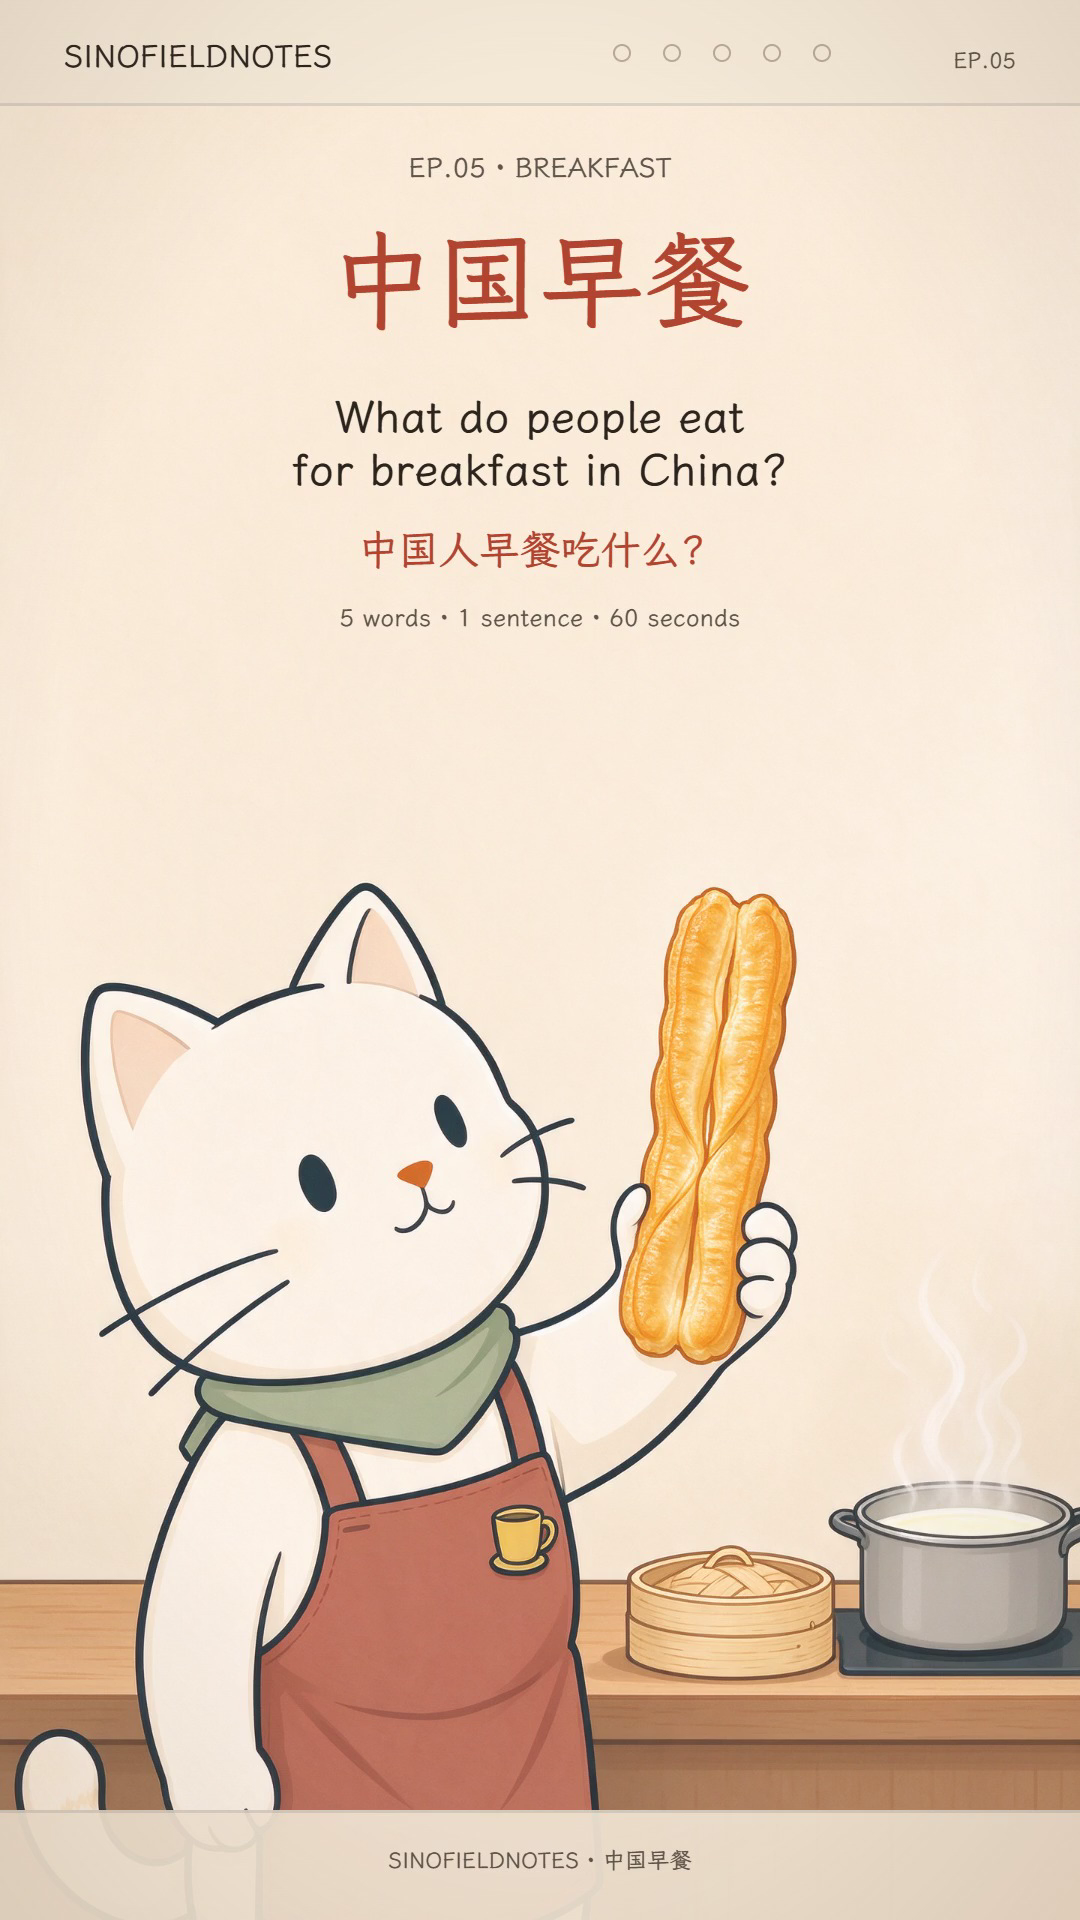
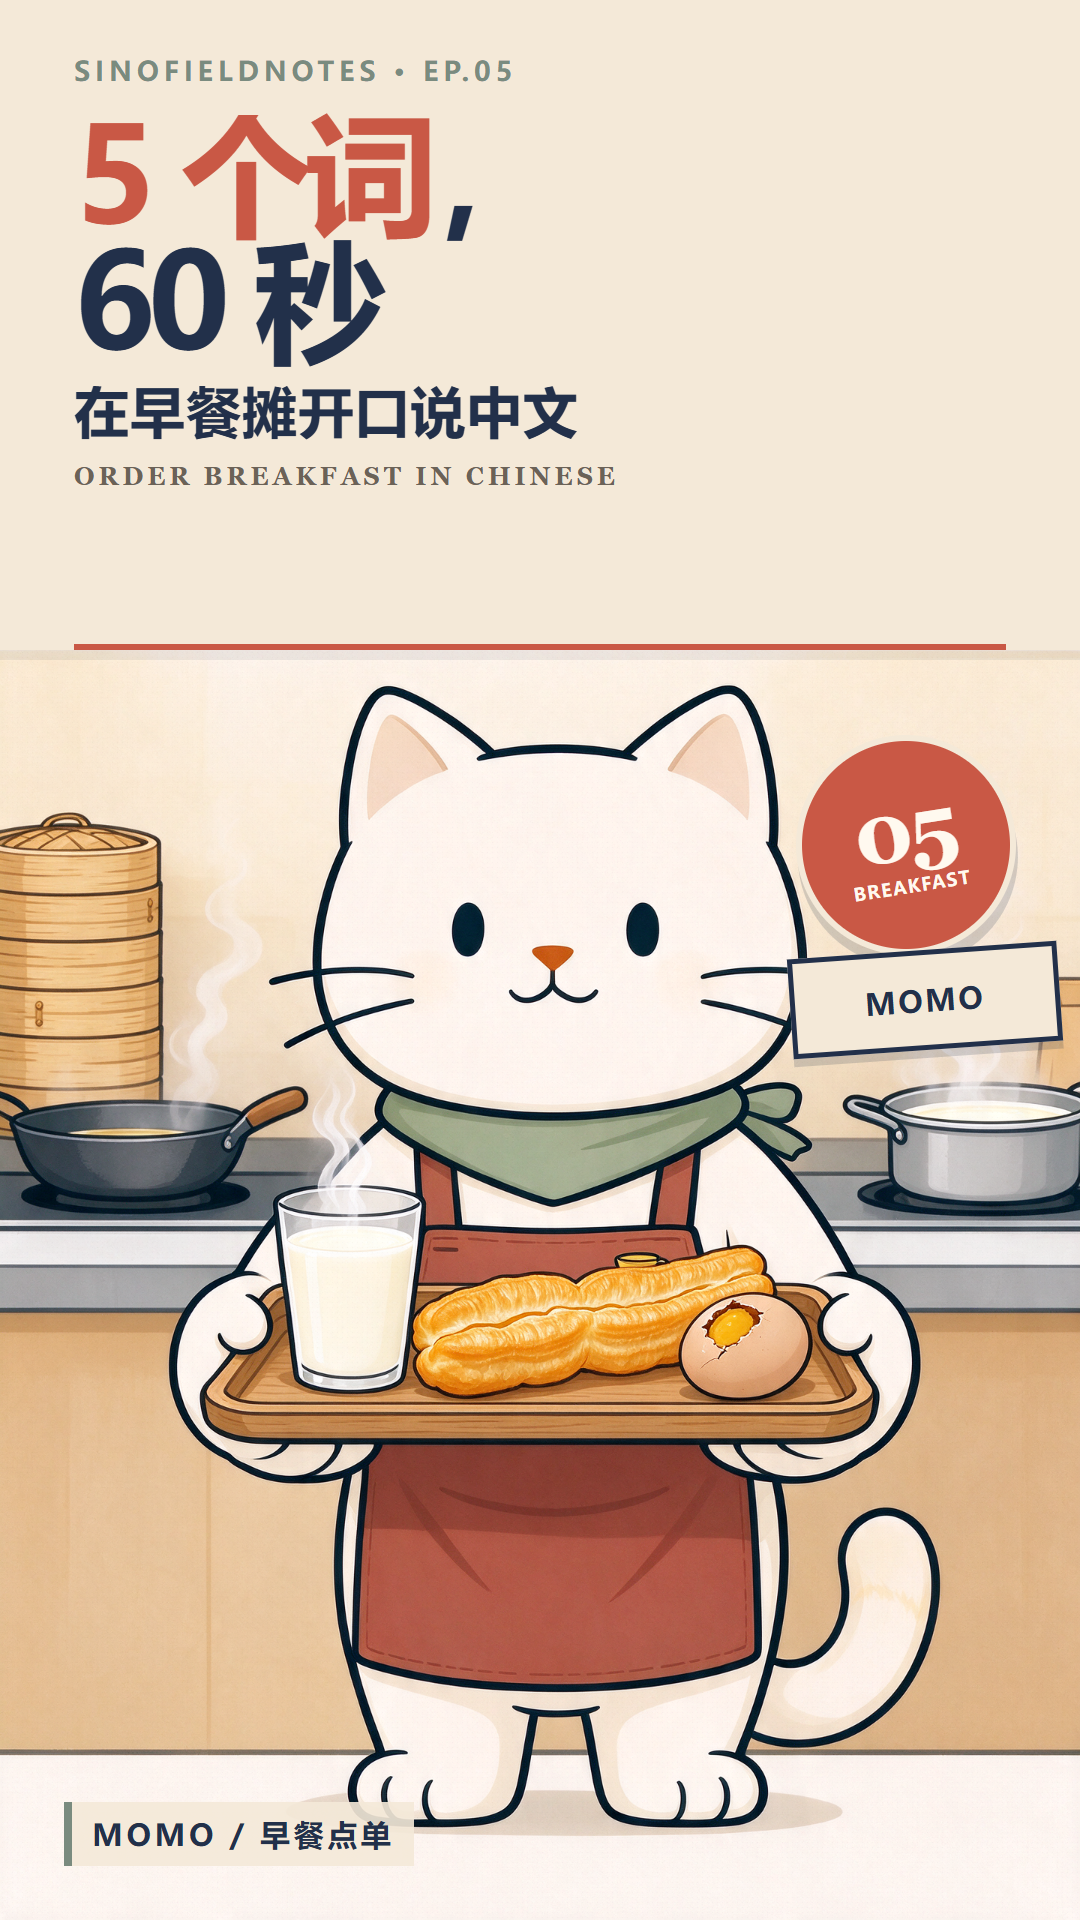
Fix EP05 cover layout

diff --git a/production/episodes/05-breakfast/cover.html b/production/episodes/05-breakfast/cover.html
@@ -1,0 +1,34 @@
+<!doctype html>
+<html><head><meta charset="utf-8"><style>
+*{box-sizing:border-box}
+html,body{margin:0;padding:0;width:1080px;height:1920px;overflow:hidden;background:#F4E9D8}
+.cover{position:relative;width:1080px;height:1920px;background:url('assets/mascot/breakfast-cover-v1.png') center/cover no-repeat}
+.grain{position:absolute;inset:0;background-image:radial-gradient(rgba(34,48,74,.055) .7px,transparent .7px);background-size:5px 5px;opacity:.5;pointer-events:none}
+.top{position:absolute;left:0;top:0;width:1080px;height:650px;background:#F4E9D8;padding:54px 74px 0;box-shadow:0 10px 0 rgba(34,48,74,.08)}
+.kicker{font:600 27px/1.2 "Microsoft YaHei",sans-serif;letter-spacing:.18em;color:#7A8B7F}
+.title{font:900 132px/0.95 "Microsoft YaHei",sans-serif;letter-spacing:-.055em;color:#22304A;margin-top:22px}
+.title .red{color:#C95845}
+.sub{font:700 55px/1.2 "Microsoft YaHei",sans-serif;color:#22304A;margin-top:18px;letter-spacing:.02em}
+.en{font:600 25px/1.2 Georgia,serif;letter-spacing:.16em;color:#6B6257;margin-top:18px}
+.rule{position:absolute;left:74px;bottom:0;width:932px;height:6px;background:#C95845}
+.sticker{position:absolute;right:64px;top:735px;width:220px;height:220px;border-radius:50%;background:#C95845;color:#FFF9EF;display:flex;flex-direction:column;align-items:center;justify-content:center;transform:rotate(-9deg);box-shadow:0 12px 0 rgba(34,48,74,.18);border:6px solid #F4E9D8}
+.sticker b{font:900 84px/0.9 Georgia,serif;letter-spacing:-.05em}
+.sticker span{font:700 18px/1.2 "Microsoft YaHei",sans-serif;letter-spacing:.08em;margin-top:8px}
+.bottom{position:absolute;left:64px;bottom:54px;font:700 30px/1.2 "Microsoft YaHei",sans-serif;letter-spacing:.12em;color:#22304A;background:rgba(244,233,216,.9);padding:14px 20px;border-left:8px solid #7A8B7F}
+.tag{position:absolute;right:20px;top:950px;width:270px;height:100px;background:#F4E9D8;border:5px solid #22304A;box-shadow:0 8px 0 rgba(34,48,74,.18);transform:rotate(-4deg);display:flex;align-items:center;justify-content:center;font:800 30px/1 "Microsoft YaHei",sans-serif;letter-spacing:.08em;color:#22304A}
+.tag span{color:#C95845;margin-left:8px}
+</style></head><body>
+<div class="cover">
+  <div class="grain"></div>
+  <div class="top">
+    <div class="kicker">SINOFIELDNOTES · EP.05</div>
+    <div class="title"><span class="red">5 个词</span>，<br>60 秒</div>
+    <div class="sub">在早餐摊开口说中文</div>
+    <div class="en">ORDER BREAKFAST IN CHINESE</div>
+    <div class="rule"></div>
+  </div>
+  <div class="sticker"><b>05</b><span>BREAKFAST</span></div>
+  <div class="tag">MOMO</div>
+  <div class="bottom">MOMO / 早餐点单</div>
+</div>
+</body></html>
